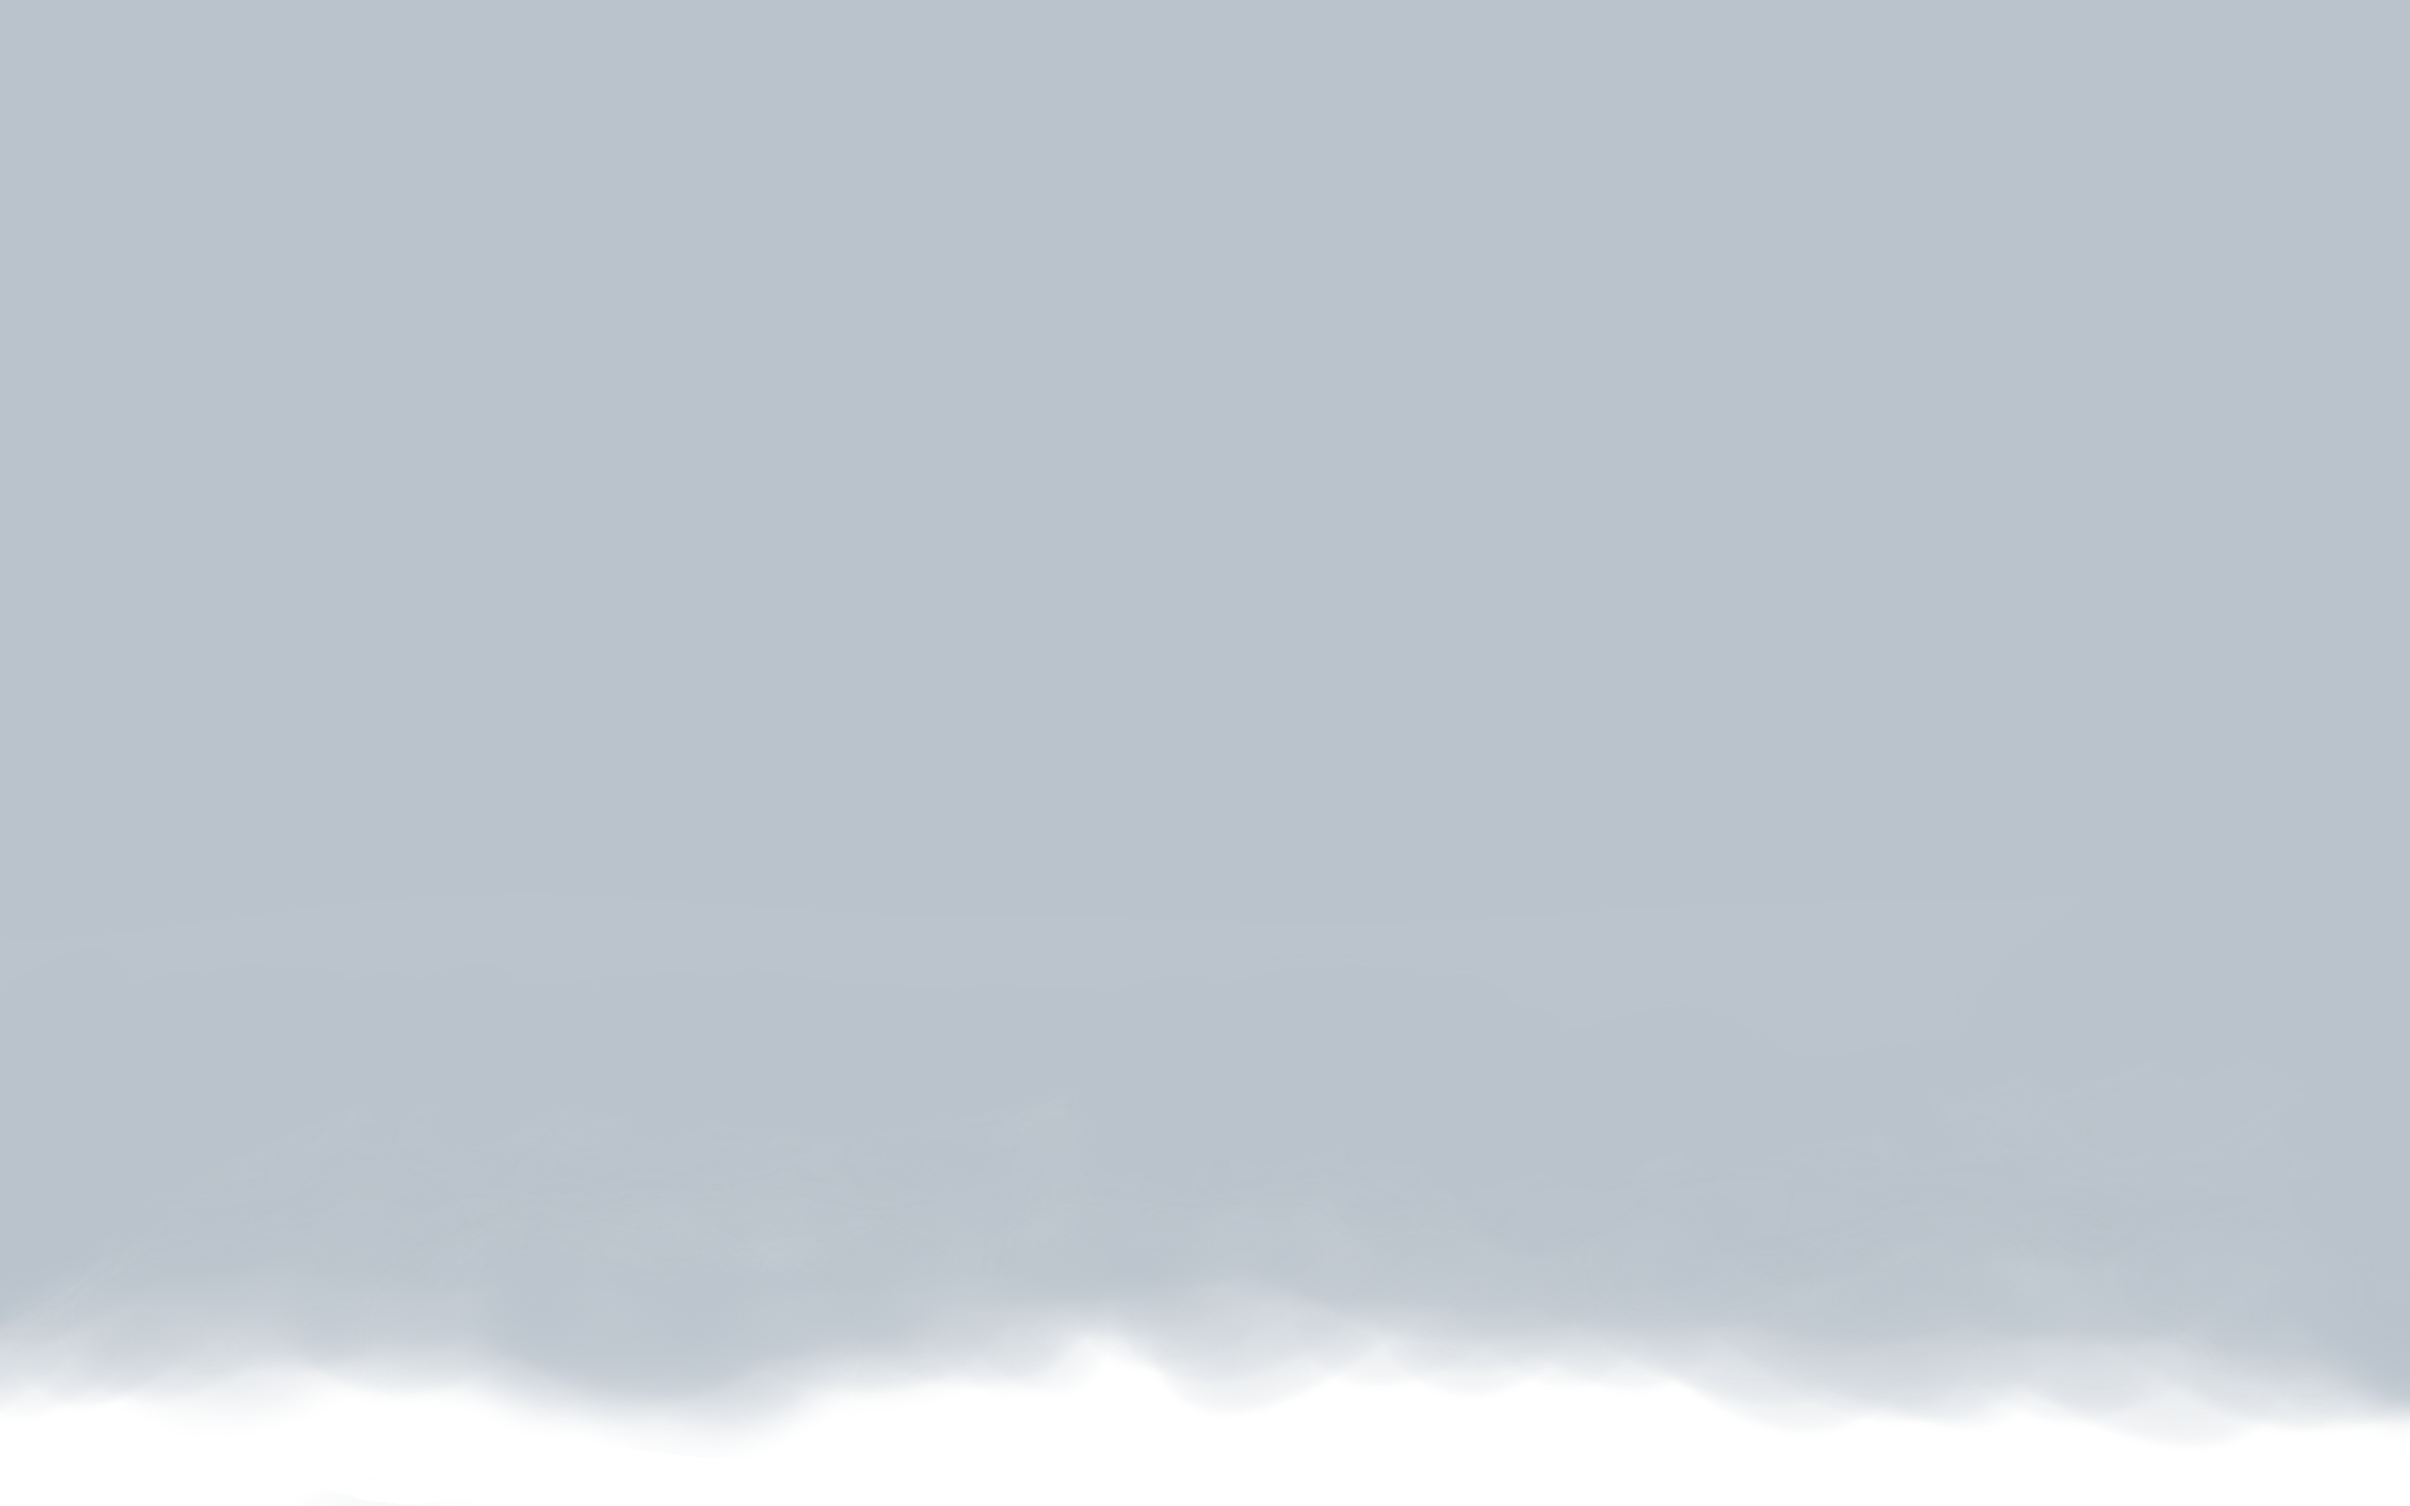
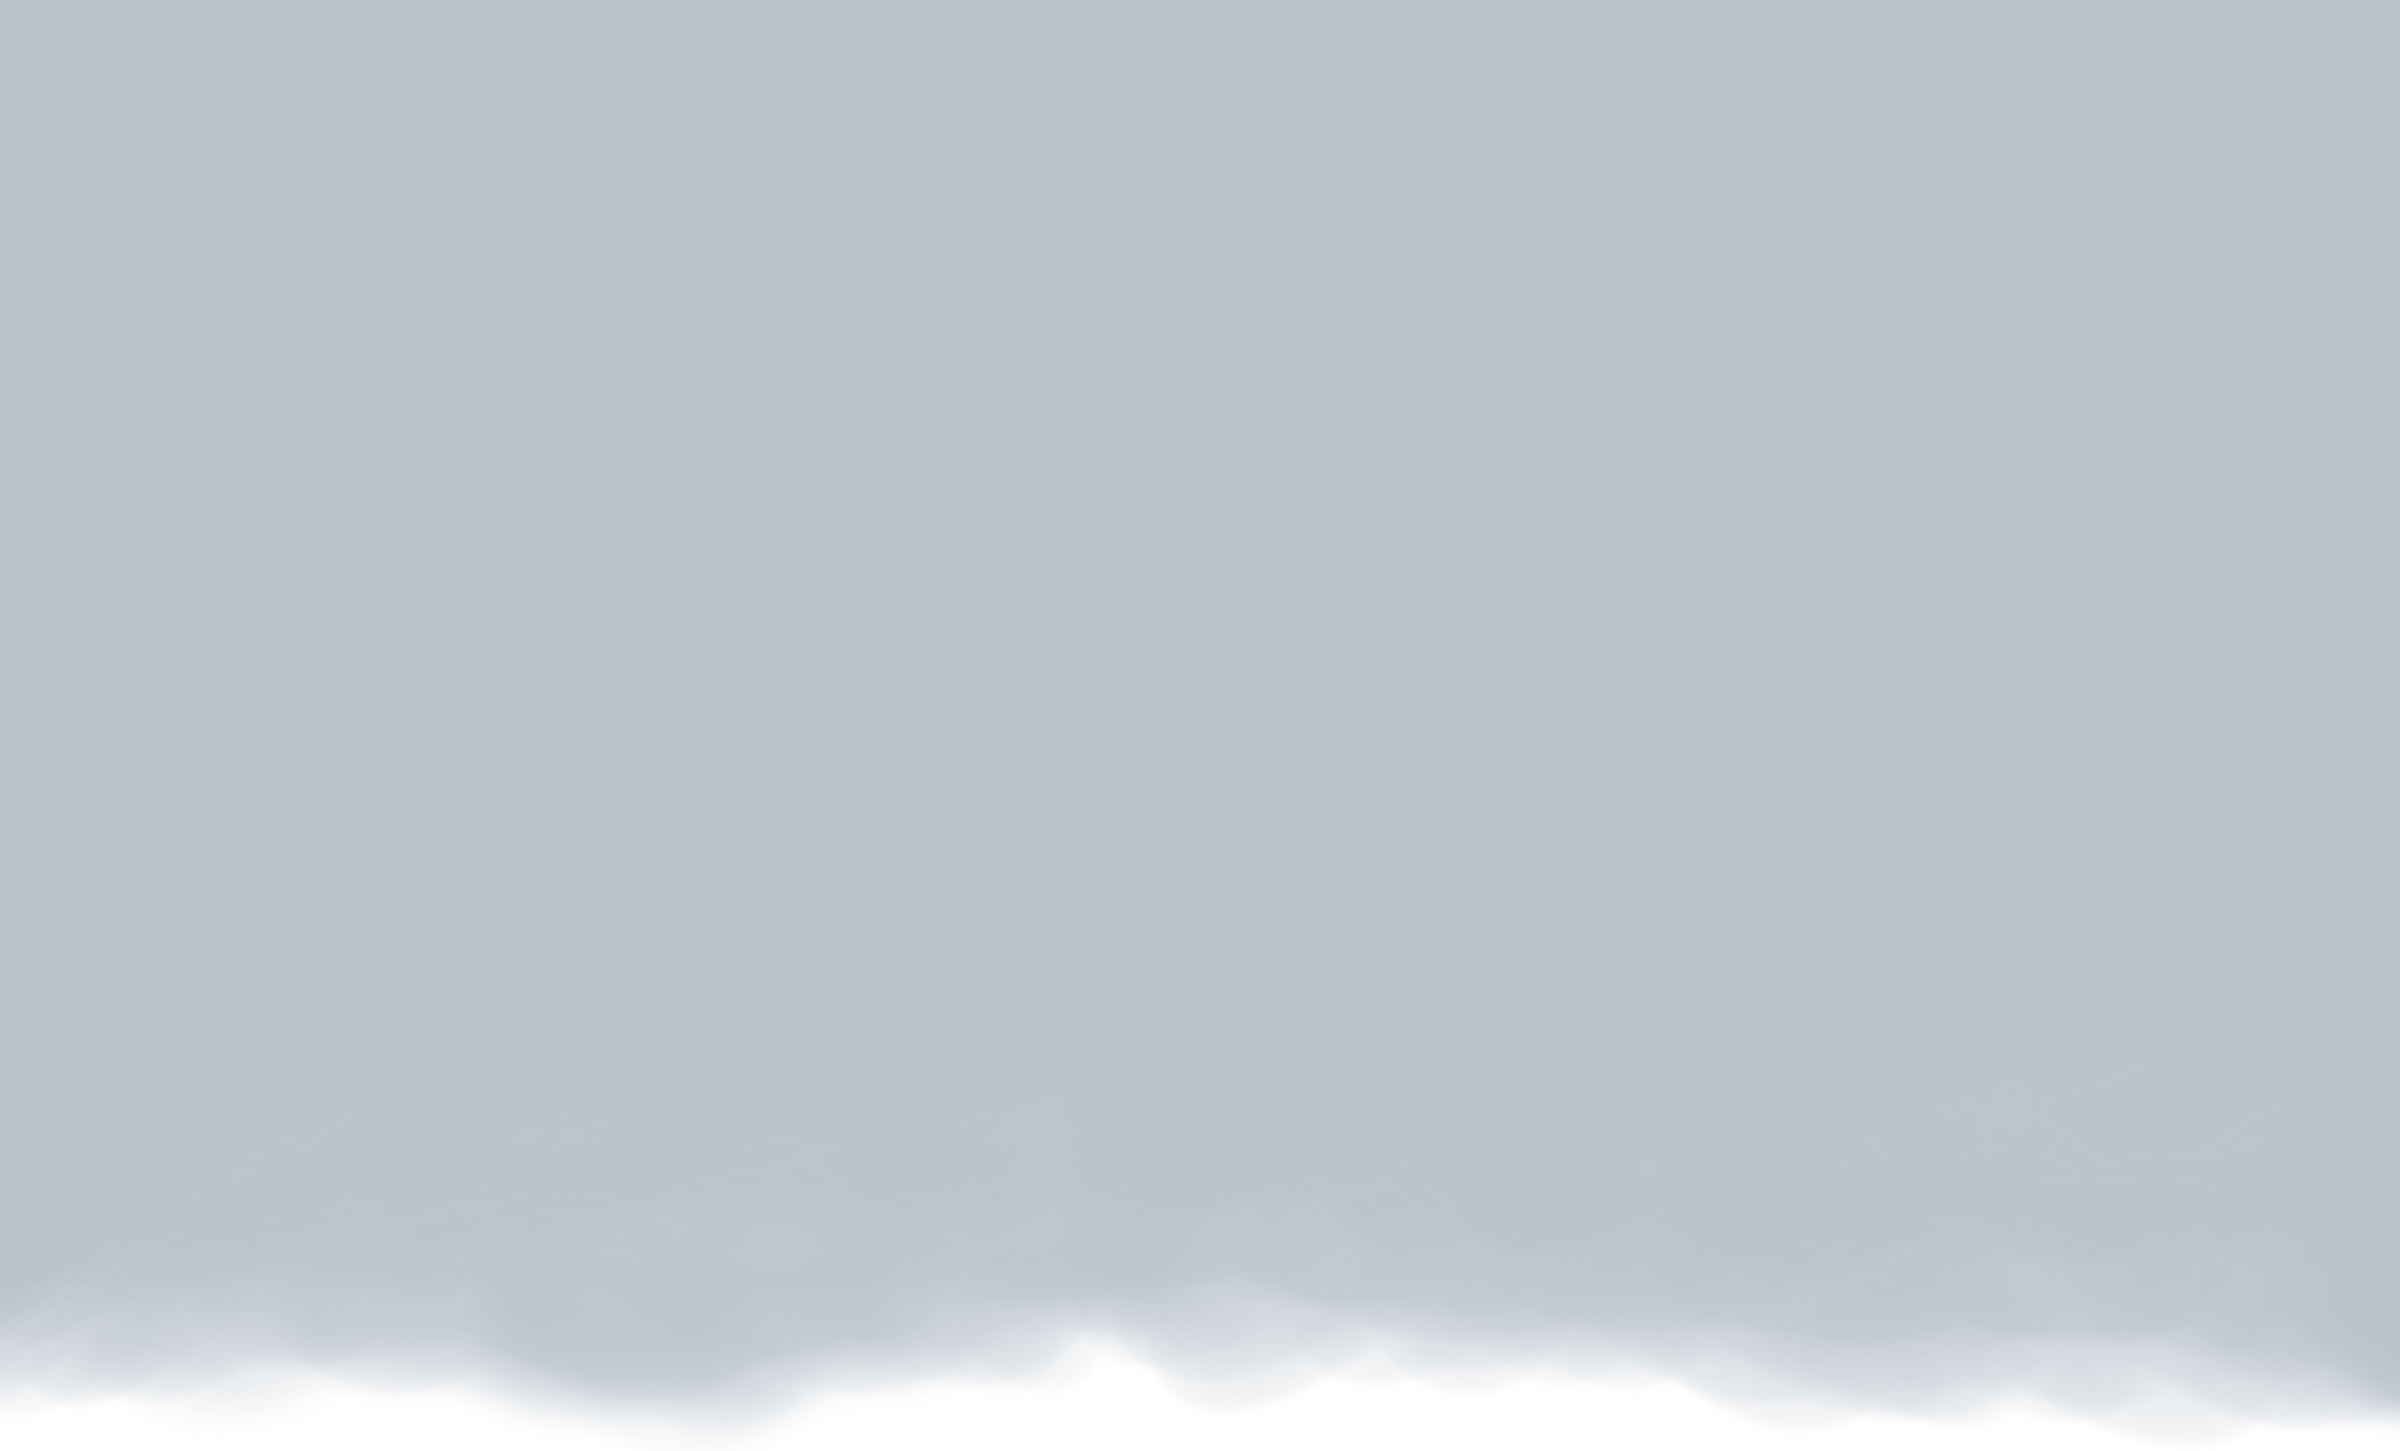
updated images

Changed region(s): [[0.0, 0.8716, 1.0, 0.9961]]

diff --git a/css/parallax_style.css b/css/parallax_style.css
@@ -41,7 +41,7 @@
  .group2{ /*welcome/timeline - brown*/
   z-index: 0;
   height: 270vh;
-  background-color: #140b00;
+  background: #140b00;
     will-change:top;
 }
 
@@ -51,7 +51,7 @@
 .group4{ /*gallery - dark blue*/
   z-index: 0;
   height: 300vh;
-  background-color: #0b0d21;
+  background: #0b0d21;
     will-change:top;
 }
 .group5{ /*stars*/
@@ -65,7 +65,7 @@
 }
 .group6a{ /*about him - dark blue*/
   height:50%;
-  background-color: #080d1c;
+  background: #080d1c;
   position:relative;
   width:100%;
 }
@@ -103,7 +103,7 @@
 
 .parallax_layer--mountain1 {
   transform: translateZ(-2px) scale(3);
-  background-image: url("../img/mountain/layer_1.png");
+  background-image: url("../img/mountain/layer_1.jpg");
   z-index:-10;
   position:fixed;
   background-size: cover;
@@ -143,7 +143,7 @@
 
 .parallax_layer--ocean1 {
   transform: translateZ(-2.3px) scale(3.3);
-  background-image: url("../img/ocean/layer_1.png");
+  background-image: url("../img/ocean/layer_1.jpg");
   z-index:-5;
   position:fixed;
   background-size: cover;
@@ -246,84 +246,55 @@
 
 .parallax_layer--bike1 {
   transform: translateZ(-1.75px) scale(2.75);
-  background-image: url("../img/bike/layer_1.png");
+  background-image: url("../img/bike/artflow_201609212124.jpg");
   z-index:-10;
   position:fixed;
   background-size: cover;
   width:102%;
 }
-.parallax_layer--bike1b {
-  transform: translateZ(-1.5px) scale(2.5);
-  background-image: url("../img/bike/layer_1b.png");
-  z-index:-9;
-  position:fixed;
-  background-size: cover;
-  width:102%;
-}
 .parallax_layer--bike2 {
-  background-image: url("../img/bike/layer_2.png");
-  transform: translateZ(-1.3px) scale(2.3);
-  z-index:-8;
+  background-image: url("../img/bike/artflow_201609212220.png"); /*mountain*/
+  transform: translateZ(-1.5px) scale(2.5);
+  z-index:-9;
   position:fixed;
 }
 .parallax_layer--bike2b {
-  transform: translateZ(-1px) scale(2);
-  background-image: url("../img/bike/layer_2b.png");
-  z-index:-7;
+  transform: translateZ(-1.2px) scale(2.2);
+  background-image: url("../img/bike/artflow_201609220948.png"); /*fog and birds*/
+  z-index:-8;
   position:fixed;
   background-size: cover;
   width:102%;
 }
 .parallax_layer--bike3 {
-  background-image: url("../img/bike/layer_3.png");
-  transform: translateZ(-0.8px) scale(1.8);
-  z-index:-6;
+  background-image: url("../img/bike/artflow_201609221310.png"); /*water*/
+  transform: translateZ(-1px) scale(2);
+  z-index:-7;
   position:fixed;
 }
 .parallax_layer--bike4 {
-  background-image: url("../img/bike/layer_4.png");
-  z-index:-5;
-  transform: translateZ(-.7px) scale(1.7);
+  background-image: url("../img/bike/artflow_201609221141.png"); /*bridge*/
+  z-index:-6;
+  transform: translateZ(-.8px) scale(1.8);
   position:fixed;
 }
-.parallax_layer--bike5a {
-  background-image: url("../img/bike/layer_5a.png");
+
+.parallax_layer--bike5 {
+  background-image: url("../img/bike/artflow_201609221157.png"); /*grass-back*/
   z-index:-4;
   transform: translateZ(-.5px) scale(1.5);
   position:fixed;
 }
-.parallax_layer--bike5b {
-  background-image: url("../img/bike/layer_5b.png");
+.parallax_layer--bike6 {
+  background-image: url("../img/bike/artflow_201609221258.png");
   z-index:-3;
   transform: translateZ(-.25px) scale(1.25);
   position:fixed;
 }
 
-.parallax_layer--bike6 {
-  background-image: url("../img/bike/layer_6.png");
-  z-index:-2;
-  position:fixed;
-  transform: translateZ(-.25px) scale(1.25);
-/*  
-  transition: transform 5s ease-in-out;
-  -webkit-transition: 5s ease-in-out;
-    -moz-transition: 5s ease-in-out;
-    -o-transition: 5s ease-in-out;
-    transition: 5s ease-in-out;
-*/
-  
-}
-
- .parallax_layer--bike6.bikes:hover {
-   /* -webkit-transform: translate3d(-400px, 380px, 0px) rotate(-7deg) scale(.5);
-    -moz-transform: translate3d(-800px, -50px, -.25px) scale(.25);
-    -o-transform: translate3d(-300px, -50px, -.25px) scale(.25);
-    -ms-transform: translate3d(-300px, -50px, -.25px) scale(.25);
-    transform: translate3d(-400px, 380px, 0px) rotate(-7deg) scale(.5);*/
-  }
 
 .parallax_layer--bike7 {
-  background-image: url("../img/bike/layer_7.png");
+  background-image: url("../img/bike/artflow_201609212217.png");
   z-index:0;
   position:fixed;
 }
@@ -337,7 +308,7 @@
 
 .parallax_layer--city1 {
   transform: translateZ(-2.5px) scale(3.5);
-  background-image: url("../img/city/layer_1.png");
+  background-image: url("../img/city/layer_1.jpg");
   z-index:1;
   position:fixed;
   background-size: cover;

diff --git a/index.html b/index.html
@@ -84,14 +84,15 @@
   :::::::::::::::::::::::::::::::::::::::::::::::
   ::::::::::::::::::::::::::::::::::::::::::::::: -->
       <div class = "parallax_group group2">
+        <div class = "group2-container">
           <div class="intro">
             <h1> Tiffany & Alex </h1>
             <h2> July 22, 2017 </h2>
             <h2> Boulder Ridge, San Jose, California </h2>
+            </div>
             <div class = "curly_divider">
               <img src="img/curlies.png"> 
-            </div>
-          </div> 
+            </div> 
           
           <div class = "our_story" id= "section1">
            <div class="spacer"> </div>
@@ -140,15 +141,16 @@
                 </li>
               </ul>
           </div>
-          </div>
-          <!--hello! -->
+        </div>
+      </div>
+    </div>
 <!--   ::::::::::::::::::::::::::::::::::::::::::
   :::::::::::::::::::::::::::::::::::::::::::::::
   ::::::::::::::::  timeilne  :::::::::::::::::::
   :::::::::::::::::::::::::::::::::::::::::::::::
   ::::::::::::::::::::::::::::::::::::::::::::::: -->
 
-      </div>
+
 
       <div class="parallax_group group3">
         <div class="parallax_layer parallax_layer--ocean1"> </div>
@@ -293,14 +295,13 @@
 
       <div class="parallax_group group7">
         <div class="parallax_layer parallax_layer--bike1"> </div>
-        <div class="parallax_layer parallax_layer--bike1b"> </div>
         <div class="parallax_layer parallax_layer--bike2"> </div>
         <div class="parallax_layer parallax_layer--bike2b"> </div>
         <div class="parallax_layer parallax_layer--bike3"> </div>
         <div class="parallax_layer parallax_layer--bike4"> </div>
-        <div class="parallax_layer parallax_layer--bike5a"> </div>
-        <div class="parallax_layer parallax_layer--bike5b"> </div>
-        <div class="parallax_layer parallax_layer--bike6 bikes"> </div>
+        <div class="parallax_layer parallax_layer--bike4b"> </div>
+        <div class="parallax_layer parallax_layer--bike5"> </div>
+        <div class="parallax_layer parallax_layer--bike6"> </div>
         <div class="parallax_layer parallax_layer--bike7"> </div>
       </div>
 

diff --git a/css/styles.css b/css/styles.css
@@ -17,7 +17,6 @@ ul {
 /*-------------HEADERS--------------*/
 
 .intro{
-  background-color: #140b00;
   color:white;
   text-align: center;
   padding-top: 90px;
@@ -124,6 +123,13 @@ p{
   animation-name: fadeInUp;
   animation-duration: 1s;
   visibility: visible;
+}
+
+.group2-container{
+  height:100%;
+  width:100%;
+  background: url(https://www.transparenttextures.com/patterns/dark-tire.png) repeat;
+  padding: 10px;
 }
 
 /*--------TIMELINE CAROUSEL------------*/
@@ -309,6 +315,7 @@ p{
   bottom:0;
   position:absolute;
   padding-top: 50px;
+  background:url(https://www.transparenttextures.com/patterns/checkered-pattern.png) repeat;
 }
 .about-him h2, .about-him p{
   color:#bac3cc;
@@ -320,6 +327,8 @@ p{
   padding-right:20px;
   padding-top: 200px;
   position:absolute;
+
+  background:url(https://www.transparenttextures.com/patterns/white-linen.png) repeat;
 }
 .about-her h2, .about-her p{
   color:#080d1c;
@@ -615,6 +624,11 @@ figure.effect-layla h2 {
   transform: translate3d(0,-30px,0);
 }
 
+figure.effect-layla img{
+    border: 9px solid rgba(255, 255, 255, 1);
+    border-radius: 5px;
+    box-shadow: 0 1px 4px rgba(0, 0, 0, 0.6);
+}
 figure.effect-layla img,
 figure.effect-layla figcaption::before,
 figure.effect-layla figcaption::after,
@@ -659,8 +673,9 @@ figure.effect-layla:hover img {
   height:10vh;
 }
 
-.curly_divider{
-  position: absolute;
-  width: 50%;
-  margin: 70px 25%;
+.curly_divider img{
+  width: auto;
+  margin: 0 auto;
+  display:block;
+  /*margin: 70px 25%;*/
 }
